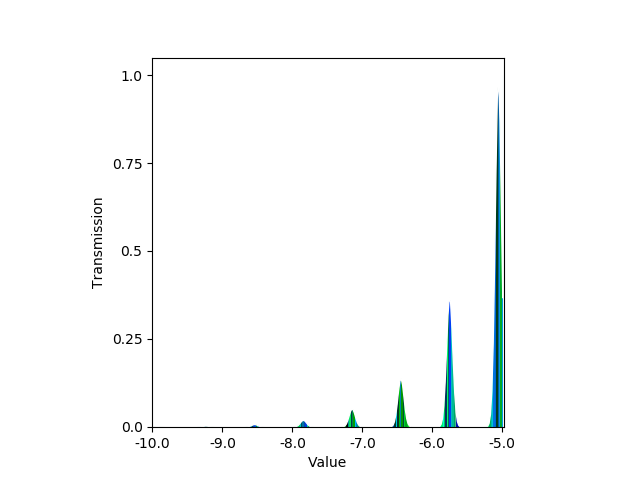
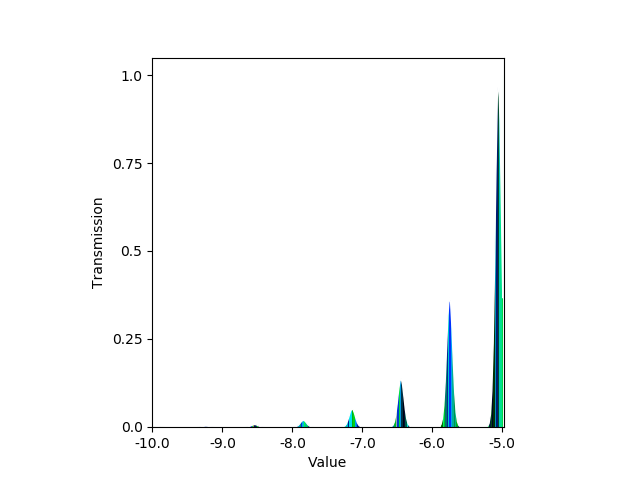
new changes

diff --git a/static/js/script.js b/static/js/script.js
@@ -1,0 +1,298 @@
+   
+console.log("hi")
+var margin = {top: 20, right: 50, bottom: 20, left: 20};
+	width = 1160 - margin.left - margin.right,
+	height = 500 - margin.top - margin.bottom;
+
+//variable delcartion
+
+var reddata = [];
+var greendata = [];
+var bluedata = [];
+var session = [];
+var redpath;
+var greenpath;
+var bluepath;
+var drawing = false;
+
+var redArray = []
+var greenArray =[]
+var blueArray = [] 
+var color = "red"
+    
+var output = d3.select('#output');
+
+var line = d3.svg.line()
+    .interpolate("bundle") // basis, see http://bl.ocks.org/mbostock/4342190
+    .tension(1)
+    .x(function(d, i) { return d.x; })
+    .y(function(d, i) { return d.y; });
+
+var svg = d3.select("#sketch").append("svg")
+    .attr("width", width + margin.left + margin.right)
+    .attr("height", height + margin.top + margin.bottom)
+
+svg.append("g")
+    .attr("transform", "translate(" + margin.left + "," + margin.top + ")");
+    
+	
+
+svg
+  .on("mousedown", listen)
+  .on("touchstart", listen)
+  .on("touchend", ignore)
+  .on("touchleave", ignore)
+  .on("mouseup", ignore)
+  .on("mouseleave", ignore);
+
+
+// ignore default touch behavior
+var touchEvents = ['touchstart', 'touchmove', 'touchend'];
+touchEvents.forEach(function (eventName) {
+  document.body.addEventListener(eventName, function(e){
+    e.preventDefault();
+  });  
+});
+
+    
+
+      // We're passing in a function in d3.max to tell it what we're maxing (x value)
+      var x = d3.scale.linear()
+          .domain([0, 256])
+          .range([margin.left, width - margin.right]);  // Set margins for x specific
+
+      // We're passing in a function in d3.max to tell it what we're maxing (y value)
+      var y = d3.scale.linear()
+          .domain([0, 1])
+          .range([ height - margin.bottom,margin.top]);  // Set margins for y specific
+    
+var xAxis = d3.svg.axis()
+	.scale(x)
+	.orient("bottom")
+	.ticks(20);
+
+	var yAxis = d3.svg.axis()
+	.scale(y)
+	.orient("left")
+	.ticks(15)
+    .innerTickSize(-width+70)
+    .outerTickSize(0)
+    .tickPadding(10);
+    
+    svg.append("g")
+    .attr("class", "axis") // class to style
+    	.attr("transform", "translate(" + 10 + "," + (height-20) + ")")
+	.call(xAxis);
+
+	svg.append("g")
+    .attr("class", "axis")
+	.attr("transform", "translate(" + 30 + ",0)")
+	.call(yAxis);
+    
+    
+ 
+   
+
+    
+function listen () {
+  drawing = true;
+  output.text('event: ' + d3.event.type);
+  reddata = []; // reset point data
+  greendata=[];
+  bluedata=[];
+  redpath = svg.append("path") // start a new line
+    .data([reddata])
+    .attr("class", "rline")
+    .attr("d", line);
+    
+  greenpath = svg.append("path") // start a new line
+    .data([greendata])
+    .attr("class", "gline")
+    .attr("d", line);
+    
+   bluepath = svg.append("path") // start a new line
+    .data([bluedata])
+    .attr("class", "bline")
+    .attr("d", line);   
+  if (d3.event.type === 'mousedown') {
+    svg.on("mousemove", onmove);
+  } else {
+    svg.on("touchmove", onmove);
+  }
+}
+
+function ignore () {
+  var before, after;
+  output.text('event: ' + d3.event.type);
+  svg.on("mousemove", null);
+  svg.on("touchmove", null);
+
+  // skip out if we're not drawing
+  if (!drawing) return;
+  drawing = false;
+
+}
+
+
+function onmove (e) {
+  var type = d3.event.type;
+  var point;
+
+  if (type === 'mousemove') {
+    point = d3.mouse(this);
+  } else {
+    // only deal with a single touch input
+    point = d3.touches(this)[0];
+  }
+
+  // push a new data point onto the back
+    xmouse = Math.round(x.invert(point[0] ))
+    ymouse = y.invert(point[1])
+    //so they don't draw outside the canvas
+    if( xmouse<256 && ymouse >=0 && x.invert(point[0]) >=0){
+
+    console.log({x: Math.round( x.invert(point[0])),  // Takes the pixel number to convert to number
+            y:  y.invert(point[1])})
+   str = {x: Math.round( x.invert(point[0])),  y:  y.invert(point[1])}
+    if(color== 'red'){
+        redArray.push(str)
+        reddata.push({ x: point[0], y: point[1] });
+        tick(redpath);
+        }
+    else 
+        if(color== 'green'){
+        greenArray.push(str)
+        greendata.push({ x: point[0], y: point[1] });
+        tick(greenpath);
+       }
+     if(color== 'blue'){
+        blueArray.push(str)
+        bluedata.push({ x: point[0], y: point[1] });
+        tick(bluepath);
+        }
+ 
+    }
+}
+
+function tick(path) {
+  path.attr("d", function(d) { return line(d); }) // Redraw the path:
+}
+    
+    
+//end of D3    
+
+document.getElementById("clear").addEventListener("click", function(){
+
+       if(color == 'red'){
+       redArray = []
+       redpath.attr("d", [] )
+
+	   }
+    else 
+     if(color == 'green'){
+       greenArray = []
+       greenpath.attr("d", [] )
+
+       }
+    else 
+     if(color == 'blue'){
+       blueArray = []
+       bluepath.attr("d", [] )
+
+	   }
+    	
+    });
+
+
+function submit(){
+    redValues= new Array(256).fill(0);
+    greenValues= new Array(256).fill(0);
+    blueValues= new Array(256).fill(0);
+    
+    console.log(redArray)
+    console.log(greenArray)
+    console.log(blueArray)
+    if(redArray.length == 0)
+    { 
+     swal({
+  icon: 'error',
+  title: 'Oops...',
+  text: "Please draw the red channel",
+  
+})}
+    else
+        if( greenArray.length == 0  )
+    { 
+     swal({
+  icon: 'error',
+  title: 'Oops...',
+  text: "Please draw the green channel",
+  
+})}
+      else
+        if( blueArray.length == 0  )
+    { 
+     swal({
+  icon: 'error',
+  title: 'Oops...',
+  text: "Please draw the blue channel",
+  
+})}
+    else
+    {
+    for (ind = 0 ; ind < redArray.length; ind++)    
+        { 
+        index = redArray[ind]['x']
+        value = redArray[ind]['y']
+        redValues[index]= value;}
+    for (ind = 0 ; ind < greenArray.length; ind++)    
+        {
+        index = greenArray[ind]['x']
+        value = greenArray[ind]['y']
+        greenValues[index]= value;}
+    for (ind = 0 ; ind < blueArray.length; ind++) {   
+
+        index = blueArray[ind]['x']
+        value = blueArray[ind]['y']
+        blueValues[index]= value;
+        }
+   
+    
+    $.getJSON('/background_process', {
+				  redValues: JSON.stringify(redValues),
+                  greenValues: JSON.stringify(greenValues),
+				  blueValues: JSON.stringify(blueValues),
+
+				}, function(data) {
+        // returned from the server
+        document.getElementById("result").style.display = "block";
+        location.href = "#result";
+				  console.log(data.result)
+				});}
+    
+       
+    //console.log(redValues)
+    //console.log(greenValues)
+    //console.log(blueValues)
+}  
+    
+
+
+function show(col){
+    if(col == 'red'){
+     color = 'red'   
+    }
+    else
+    if(col == 'green'){
+     color = 'green'  
+    }
+    else
+    if(col == 'blue'){
+     color = 'blue' 
+    }
+}
+ 
+  
+    
+   
+ 

diff --git a/static/css/clean-blog.css b/static/css/clean-blog.css
@@ -169,7 +169,7 @@ img::-moz-selection {
 }
 
 header.masthead {
-  margin-bottom: 50px;
+  margin-bottom: 20px;
   background: no-repeat center center;
   background-color: #868e96;
   background-attachment: scroll;

diff --git a/server.py b/server.py
@@ -22,29 +22,20 @@ def index():
 
 @app.route('/background_process')
 def background_process():
-	try:
-
-        #eval to convert the string into any array
-		redValues = np.asarray(eval(request.args.get('redValues')))
-        	greenValues = np.asarray(eval(request.args.get('greenValues')))
-		blueValues = np.asarray(eval(request.args.get('blueValues')))
-
-		print(smooth(redValues,10))
-        	print(redValues)
-
-                print assignValues(redValues,greenValues, blueValues)
-
-		return jsonify(result='data arrived')
+    redValues = np.asarray(eval(request.args.get('redValues')))
+    greenValues = np.asarray(eval(request.args.get('greenValues')))
+    blueValues = np.asarray(eval(request.args.get('blueValues')))
+    assignValues(redValues,greenValues, blueValues)
+    return jsonify(result='data arrived')
 		
-	except Exception as e:
-		return str(e)
+
     
 def assignValues(redVal, greenVal, blueVal):
         ctf = yt.ColorTransferFunction( (-10.0, -5.0) )
         ctf.add_layers(8)
         ctf.red.y = redVal
-        ctf.green.y = np.asarray([random.random() for _ in xrange(256)])
-        ctf.blue.y = np.asarray([random.random() for _ in xrange(256)])
+        ctf.green.y = greenVal
+        ctf.blue.y = blueVal
         
         '''
         ctf.red.y = smooth(redVal, 20)
